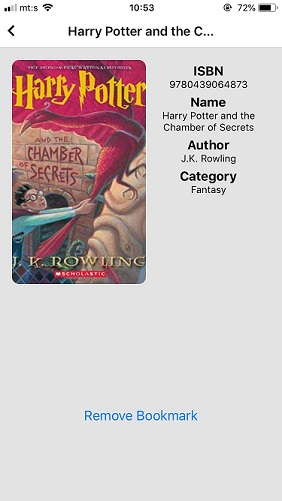
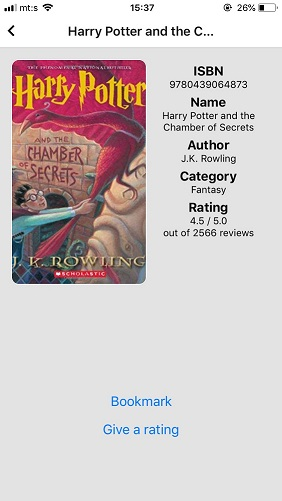
Add books ratings
Added dummy book ratings and categories.
Updated book details component.
Added book rating dialog.

diff --git a/src/components/RatingDialog/index.js b/src/components/RatingDialog/index.js
@@ -1,0 +1,70 @@
+import React, { useState } from 'react';
+import { View, StyleSheet } from 'react-native';
+import Dialog from 'react-native-dialog';
+
+const RatingDialog = ({isVisible, onSubmit, onCancel }) => {
+
+  const [rating, setRating] = useState(0);
+
+  onCancelHandler = () => {
+    onCancel();
+  }
+
+  onSubmitHandler = () => {
+    onSubmit(rating);
+  }
+
+  onRatingChangeHandler = (ratingParam) => {
+    // validation is not important right now
+    // convert , to . here
+    // if value > 5.0, set 5.0 - same thing for 0 <
+    
+    setRating(ratingParam);
+  }
+
+  return (
+    <View>
+      <Dialog.Container visible={isVisible}>
+        <Dialog.Title>Book Rating</Dialog.Title>
+        <Dialog.Description>
+          Please leave a rating below.
+        </Dialog.Description>
+        <Dialog.Input 
+          keyboardType="decimal-pad"
+          maxLength={3}
+          placeholder="2.5"
+          onChangeText={onRatingChangeHandler}
+        />
+        <Dialog.Button label="Cancel" onPress={this.onCancelHandler} />
+        <Dialog.Button label="Submit" onPress={this.onSubmitHandler} />
+      </Dialog.Container>
+    </View>
+  );
+}
+
+const styles = StyleSheet.create({
+  modal: {
+    flex: 1,
+    backgroundColor: '#e3e3e3',
+    justifyContent: 'center',
+    alignItems: 'center'
+  },
+  buttonGroup: {
+    margin: 20,
+    flexDirection: 'row',
+    alignItems: 'center',
+    justifyContent: 'space-around'
+  },
+  myStarStyle: {
+    color: 'yellow',
+    backgroundColor: 'transparent',
+    textShadowColor: 'black',
+    textShadowOffset: { width: 1, height: 1 },
+    textShadowRadius: 2,
+  },
+  myEmptyStarStyle: {
+    color: 'white',
+  }
+});
+
+export default RatingDialog;

diff --git a/src/containers/BookDetails/index.js b/src/containers/BookDetails/index.js
@@ -5,8 +5,11 @@ import { View, Text, Image, Button } from 'react-native';
 import styles from './styles';
 import { setBookmark, removeBookmark } from '../../actions/books';
 import { bookmarkedBooksSelector } from '../../reducers/books';
+import RatingDialog from '../../components/RatingDialog';
 
 const BookDetails = ({ book, ...props }) => {
+
+  const [isDialogVisible, setDialogVisibility] = useState(false);
 
   const onBookmarkHandler = () => {
     props.setBookmark(book.id);
@@ -17,11 +20,27 @@ const BookDetails = ({ book, ...props }) => {
   }
 
   const onRatingHandler = () => {
-    console.log('Give a rating');
+    setDialogVisibility(true);
+  }
+
+  const onDialogSubmitHandler = (rating) => {
+    console.log('Submitting rating: ', rating);
+    setDialogVisibility(false);
+  }
+
+  const onDialogCloseHandler = () => {
+    setDialogVisibility(false);
   }
 
   return (
     <View style={styles.screen}>
+
+      <RatingDialog
+        isVisible={isDialogVisible}
+        onCancel={onDialogCloseHandler}
+        onSubmit={onDialogSubmitHandler} 
+      />
+
       <View style={styles.header}>
         {/* Book Cover */}
         <Image

diff --git a/src/containers/BookFeed/index.js b/src/containers/BookFeed/index.js
@@ -1,6 +1,6 @@
 import React, { Component } from 'react';
 import { connect } from 'react-redux';
-import { View, StyleSheet, Text, RefreshControl, Button } from 'react-native';
+import { View, StyleSheet, Text, RefreshControl, Button, Vibration } from 'react-native';
 import MasonryList from 'react-native-masonry-list';
 
 import {
@@ -14,7 +14,8 @@ import { getBooks } from '../../actions/books';
 class BookFeed extends Component {
   
   onCardPressHandler = (book) => {
-    this.props.navigation.push('BookDetails', { book });
+    const { navigation } = this.props;
+    navigation.push('BookDetails', { book });
   }
 
   onRefreshHandler = () => {
@@ -26,7 +27,6 @@ class BookFeed extends Component {
   }
   
   render() {
-    console.log(this.props.books);
     return (
       <View style={styles.feed}>
         {

diff --git a/src/containers/BookmarkFeed/index.js b/src/containers/BookmarkFeed/index.js
@@ -6,18 +6,18 @@ import MasonryList from 'react-native-masonry-list';
 import { bookmarkedBooksSelector } from '../../reducers/books';
 
 const BookmarkFeed = ({ navigation, ...props }) => {
- 
+
   onCardPressHandler = (book) => {
     navigation.push('BookDetails', { book });
   }
-  
+
   return (
     <View style={styles.feed}>
       {
         props.bookmarkedBooks.length ?
           <MasonryList
-            onPressImage={onCardPressHandler} 
-            images={props.bookmarkedBooks}       
+            onPressImage={onCardPressHandler}
+            images={props.bookmarkedBooks}
           /> :
           <Text style={{ textAlign: 'center' }}>You have no bookmarks.</Text>
       }

diff --git a/README.md b/README.md
@@ -1,2 +1,4 @@
 ## Screens
-![Feed Screen](./docs/images/feed.jpg) ![Bookmark Screen](./docs/images/bookmarks.jpg) ![Bookmark Screen](./docs/images/details.jpg)
+![Feed Screen](./docs/images/feed.jpg) ![Bookmark Screen](./docs/images/bookmarks.jpg)
+---
+![Bookmark Screen](./docs/images/details.jpg) ![Rating Dialog](./docs/images/rating.jpg) 
